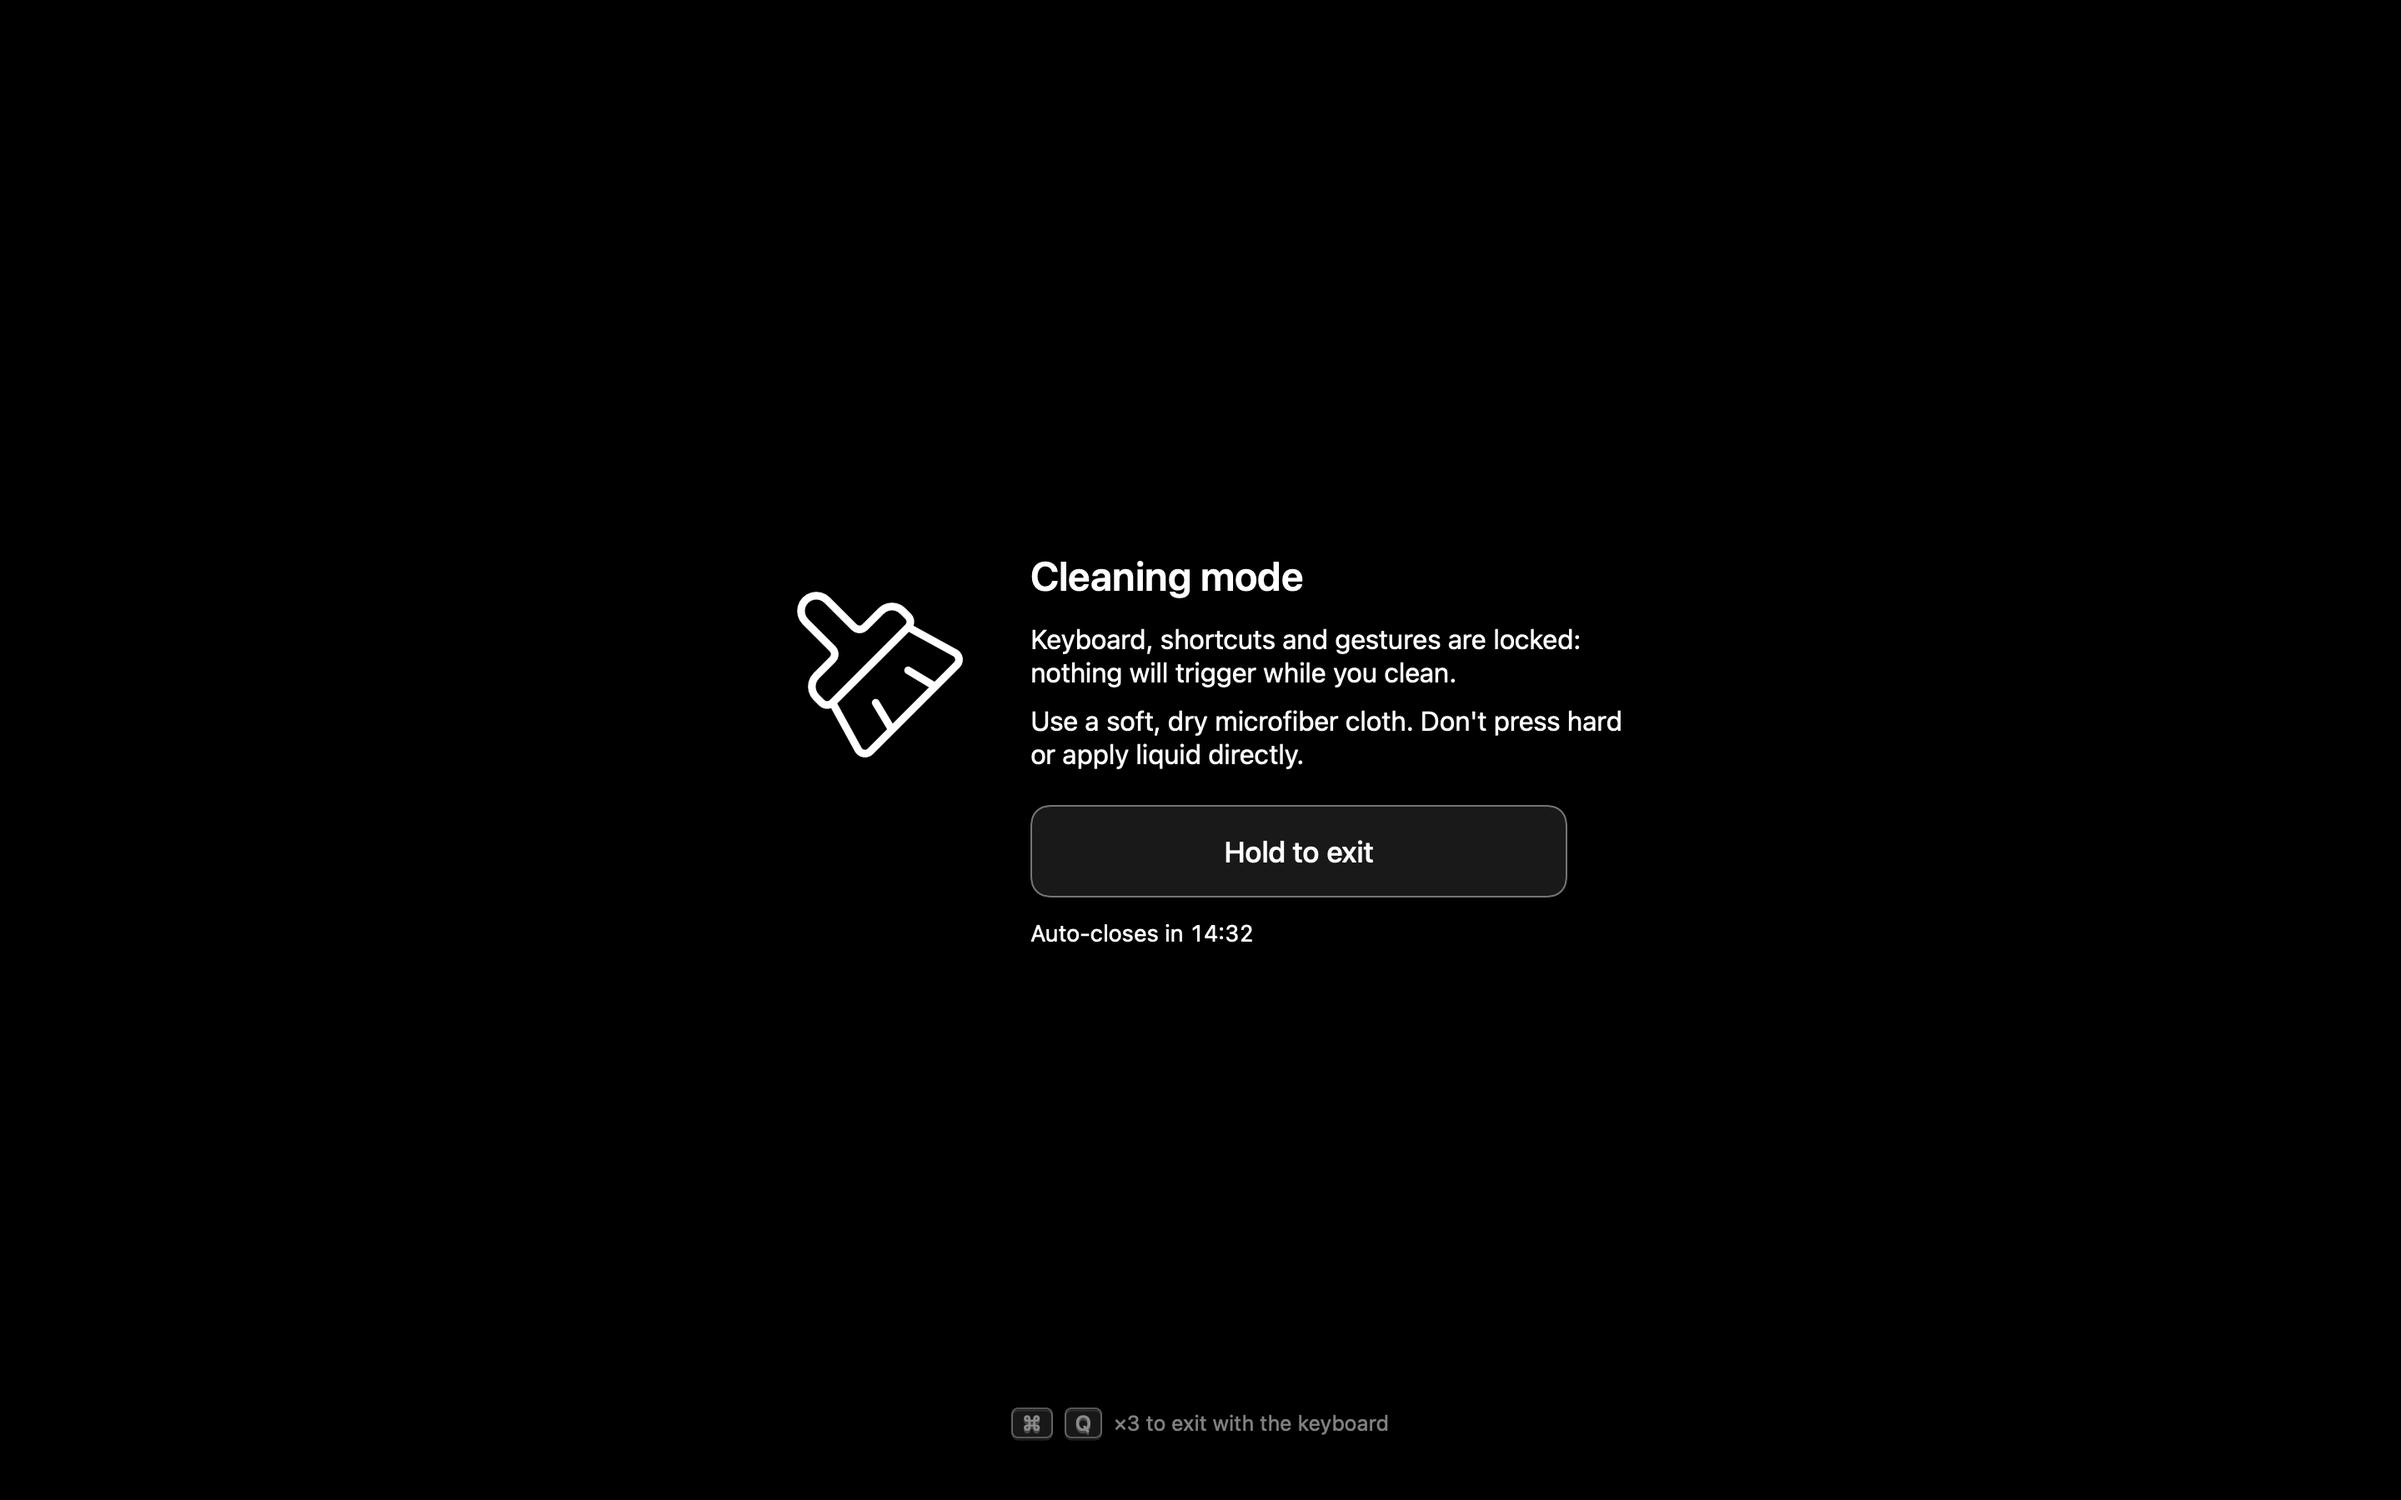
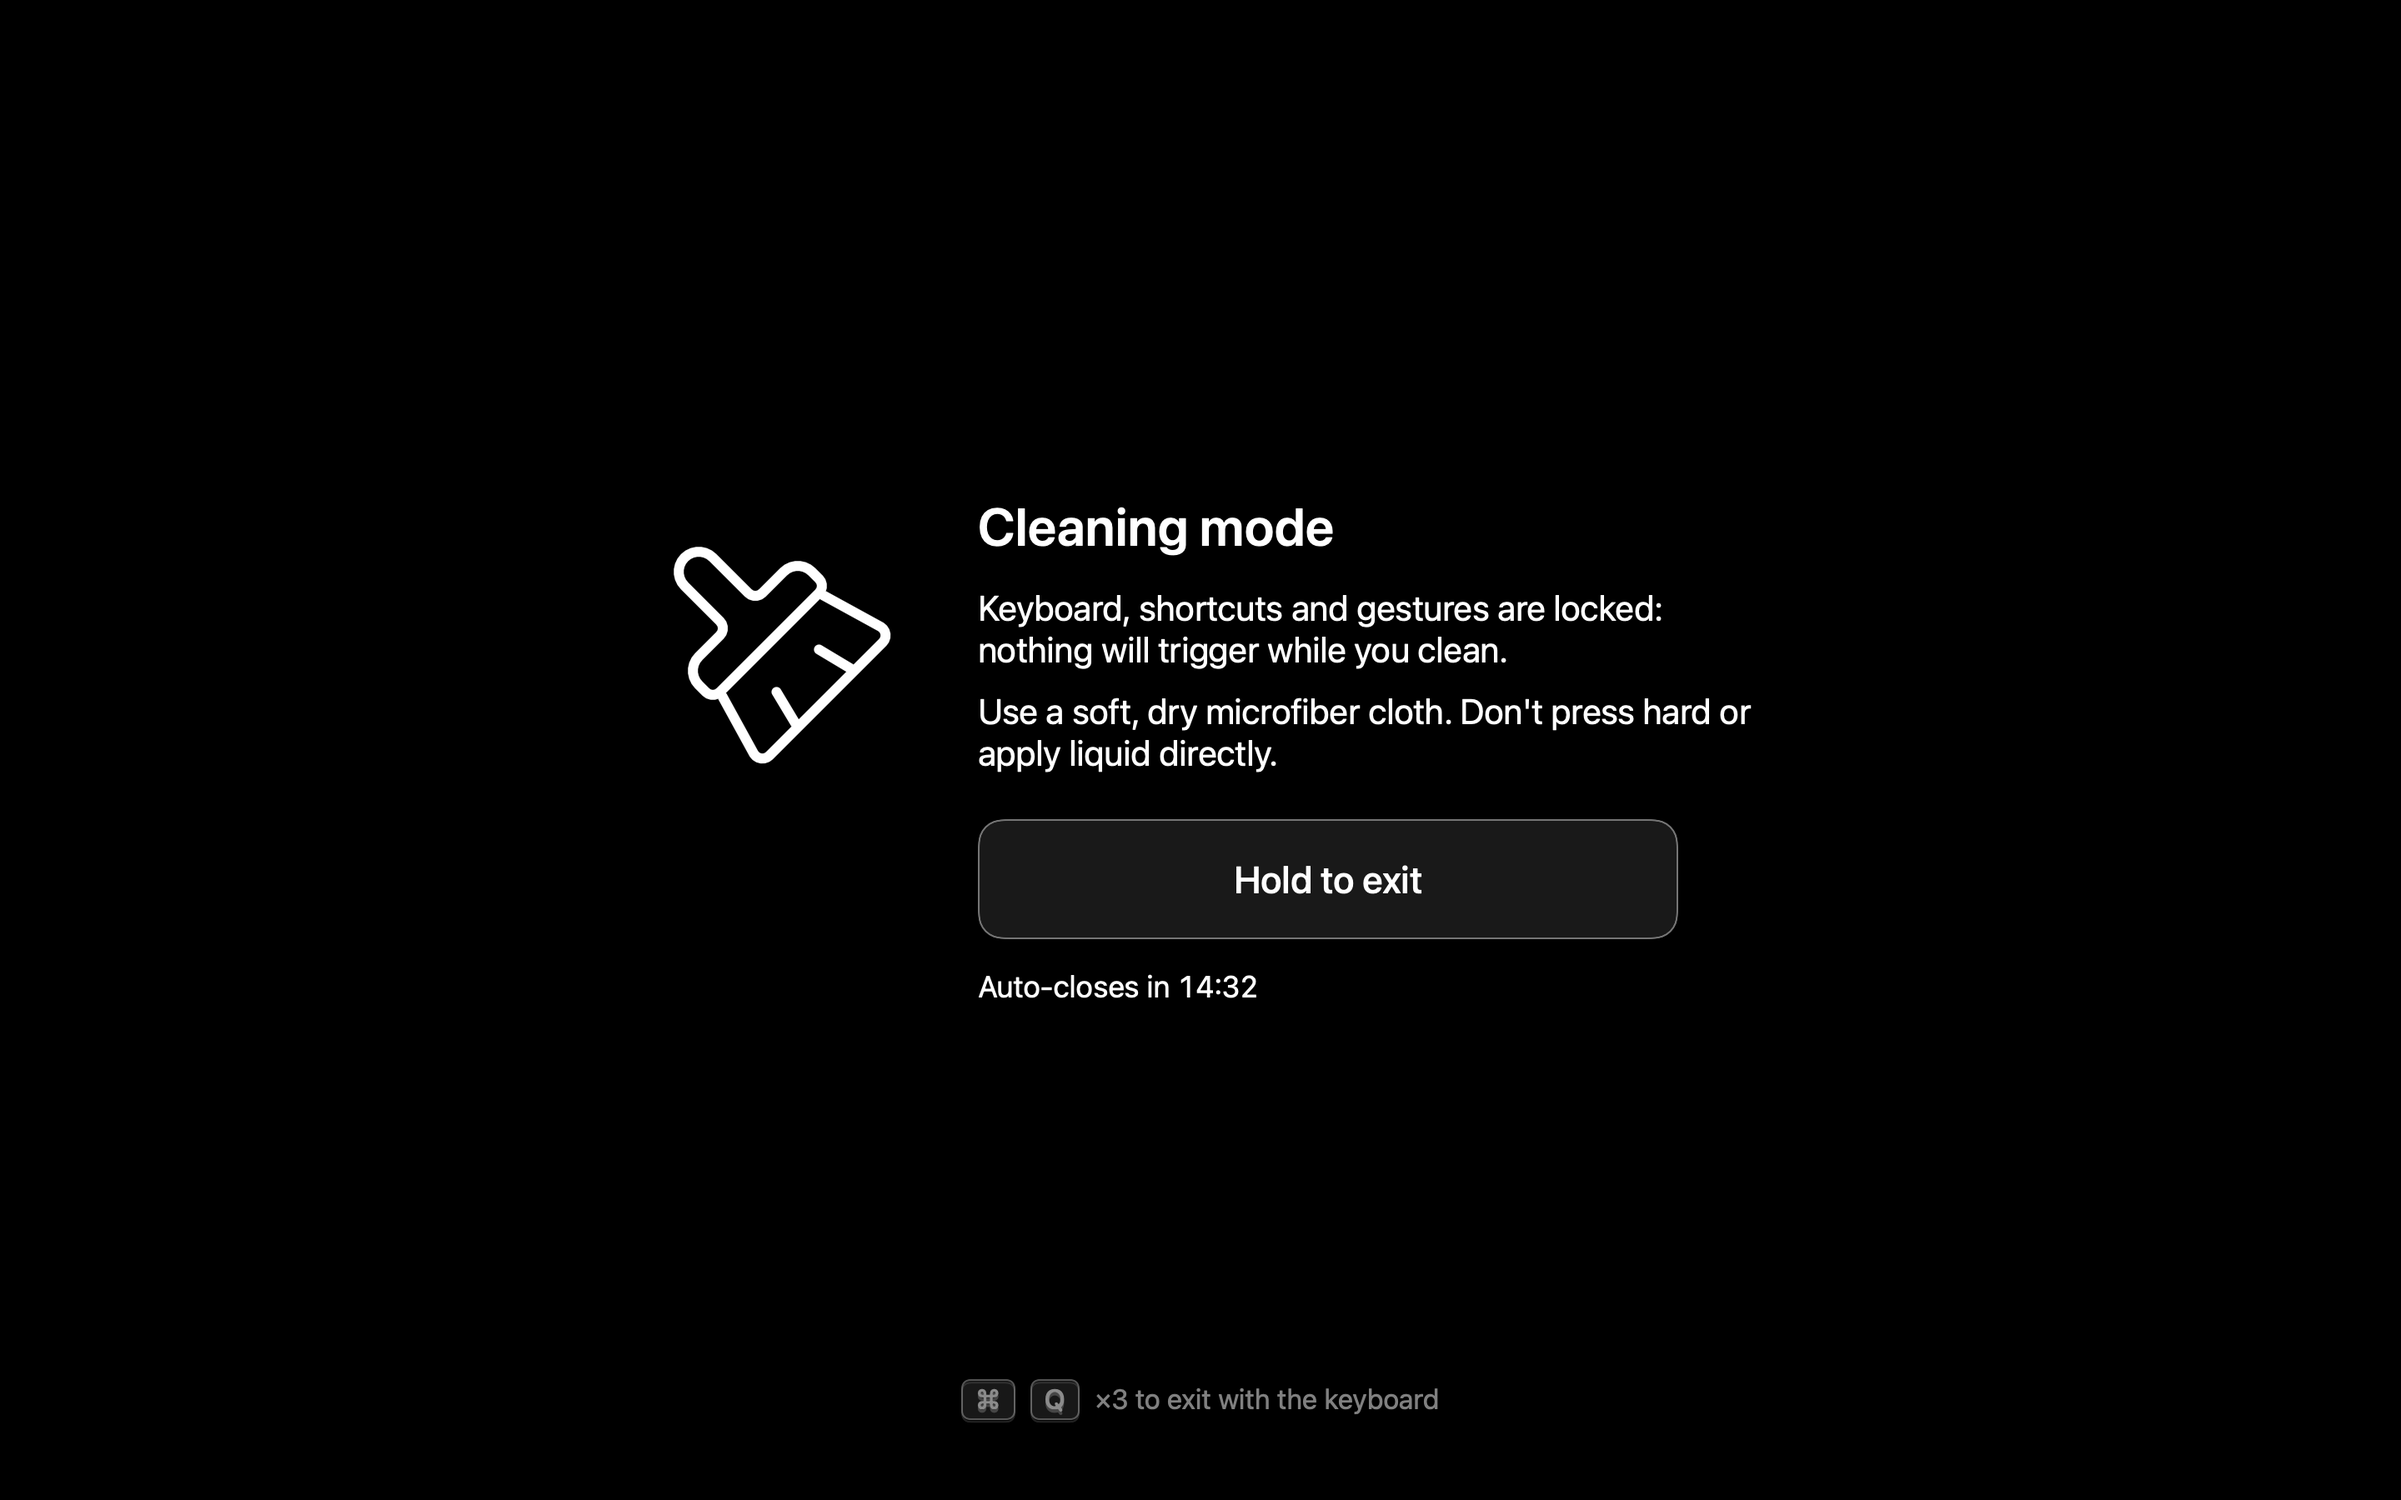
feat: enhance UI scaling logic and documentation for better adaptability on different screen sizes

Changed region(s): [[0.2812, 0.3422, 0.7188, 0.6844], [0.4062, 0.9022, 0.5938, 0.9644]]

diff --git a/Sources/CleanMode/DocsRenderer.swift b/Sources/CleanMode/DocsRenderer.swift
@@ -11,7 +11,15 @@ enum DocsRenderer {
             let dir = URL(fileURLWithPath: outputDirectory, isDirectory: true)
             try? FileManager.default.createDirectory(at: dir, withIntermediateDirectories: true)
 
-            render(lockScreen, size: CGSize(width: 1440, height: 900), to: dir.appendingPathComponent("lock.png"))
+            // Tamaño de la pantalla simulada (por defecto 1440×900); `--render-size=1280x720` para probar pantallas bajas.
+            var lockSize = CGSize(width: 1440, height: 900)
+            if let arg = CommandLine.arguments.first(where: { $0.hasPrefix("--render-size=") }) {
+                let parts = arg.dropFirst("--render-size=".count).split(separator: "x").compactMap { Double($0) }
+                if parts.count == 2 { lockSize = CGSize(width: parts[0], height: parts[1]) }
+            }
+            Config.uiScaleOverride = min(1.5, lockSize.height / 500)
+
+            render(lockScreen, size: lockSize, to: dir.appendingPathComponent("lock.png"))
             render(onboarding(dark: false), size: CGSize(width: 560, height: 680), to: dir.appendingPathComponent("onboarding-light.png"))
             render(onboarding(dark: true), size: CGSize(width: 560, height: 680), to: dir.appendingPathComponent("onboarding-dark.png"))
             exit(0)

diff --git a/Sources/CleanMode/Config.swift b/Sources/CleanMode/Config.swift
@@ -1,3 +1,4 @@
+import AppKit
 import Foundation
 
 enum Config {
@@ -23,8 +24,17 @@ enum Config {
         return n
     }
 
-    /// Factor de escala global de la UI del overlay.
-    static let uiScale: CGFloat = 1.15
+    /// Factor de escala de la UI del overlay: 1.5 por defecto. En pantallas bajas se reduce solo para que
+    /// el contenido, el subtítulo de ⌘Q y el pie quepan sin encimarse (en 1280×720 queda en 1.44).
+    /// Usa la pantalla más baja conectada, porque el contenido puede aparecer en cualquiera.
+    static var uiScale: CGFloat {
+        if let uiScaleOverride { return uiScaleOverride }
+        let lowest = NSScreen.screens.map { $0.frame.height }.min() ?? 900
+        return min(1.5, lowest / 500)
+    }
+
+    /// Solo para generar capturas de la documentación (`--render-docs`).
+    static var uiScaleOverride: CGFloat?
 
     /// Tiempo máximo de bloqueo en segundos; nil = sin límite (minutos <= 0).
     /// Prioridad (de menor a mayor):

diff --git a/CLAUDE.md b/CLAUDE.md
@@ -27,6 +27,8 @@ swift scripts/make-icon.swift Resources/AppIcon-1024.png
 
 # Regenerate README screenshots (renders SwiftUI views to PNG and exits; locks nothing)
 build/CleanMode.app/Contents/MacOS/CleanMode --render-docs=docs/screenshots --lang=en
+# Same, simulating a smaller screen (e.g. to check the layout fits)
+build/CleanMode.app/Contents/MacOS/CleanMode --render-docs=/tmp/shots --lang=de --render-size=1280x720
 
 # Run (it takes over keyboard and screen — always pass a short timeout when testing)
 open build/CleanMode.app --args --timeout=1 --lang=ja
@@ -41,7 +43,7 @@ Flow: `main.swift` → `AppDelegate`. If `Permissions.isReady` it calls `LockCon
 - **`LockController`** orchestrates everything and is the only place that sets/undoes global state: `KeyboardBlocker`, one `OverlayWindow` per `NSScreen` (level `CGShieldingWindowLevel`, rebuilt on screen-parameter changes), `NSApp.presentationOptions` (hides Dock/menu bar, disables Cmd+Tab, force quit, session termination), real-cursor hide (`CGDisplayHideCursor` + `NSCursor.hide`), an `IOPMAssertion` (no display sleep) and the auto-close countdown. `start()` creates the keyboard tap *first* and returns false before touching anything else if that fails.
 - **`KeyboardBlocker`**: an active `CGEventTap` (session tap, head insert) that swallows keyDown/keyUp/flagsChanged, `NX_SYSDEFINED` (media keys) and gesture events. It counts Cmd+Q presses (ignoring autorepeat) with a debounce reset; the tap callback runs on the main run loop so it can call UI directly. It re-enables itself on `tapDisabledByTimeout`.
 - **Three exits**, all funnel into `LockController.unlock()` → `onFinish` → terminate: hold the button (`Config.holdDuration`, 3 s), Cmd+Q ×3 (`quitPressesRequired`, `quitDebounce`), or the timeout. `AppDelegate.applicationShouldTerminate` cancels termination unless `allowTerminate` is set, so only `unlock()` can quit the app.
-- **UI**: `OverlayView` (SwiftUI, hosted in `NSHostingView`) shows content only on the screen under the mouse at launch; other screens are plain black. `CursorTrailView` (AppKit, `CALayer` dots, a 60 Hz timer) sits above it and returns nil from `hitTest` so clicks reach the button. The trail records the pointer path and places each dot where the pointer was N ms ago (not a lerp chain — that read as a whip). `HoldButton` fills white and flips the label to black via a masked second label. `BrushCleaningShape` draws aura's lucide icon from SVG path data through the small parser in `SVGPath.swift`. `Config.uiScale` (1.15) scales the whole overlay.
+- **UI**: `OverlayView` (SwiftUI, hosted in `NSHostingView`) shows content only on the screen under the mouse at launch; other screens are plain black. `CursorTrailView` (AppKit, `CALayer` dots, a 60 Hz timer) sits above it and returns nil from `hitTest` so clicks reach the button. The trail records the pointer path and places each dot where the pointer was N ms ago (not a lerp chain — that read as a whip). `HoldButton` fills white and flips the label to black via a masked second label. `BrushCleaningShape` draws aura's lucide icon from SVG path data through the small parser in `SVGPath.swift`. `Config.uiScale` scales the whole overlay: 1.5, reduced automatically on short screens to `min(1.5, lowestScreenHeight / 500)` so the content, the ⌘Q subtitle and the footer never overlap (1280×720 → 1.44).
 - **`DocsRenderer`** (hidden `--render-docs=<dir>` flag, handled first thing in `AppDelegate`): draws `OverlayView` and `OnboardingView` with `ImageRenderer` into PNGs and exits without locking or asking permissions. `OverlayView(preview: true)` skips the fade-in. `ImageRenderer` can't draw AppKit-backed controls (e.g. `ProgressView` renders as a "prohibited" sign), which is why onboarding uses the pure-SwiftUI `Spinner`; the cursor trail (AppKit) doesn't appear in the screenshots.
 - **Donation reminder** (`DonationReminder`, `DonationView`/`DonationController`): `AppDelegate.sessionFinished` counts each finished session (3 exit reasons via `LockController.ExitReason`) and, every `Config.donationReminderEvery` (10) sessions ended by the user (not by timeout), shows a small dismissible window before quitting. State is three local `UserDefaults` keys (`donationSessions`, `donationNextAt`, `donationOptOut`); no network. The link is `Config.donationURL`. To test: `--donation-every=1`; reset with `defaults delete im.dnn.cleanmode donationSessions donationNextAt donationOptOut`.
 - **`Permissions`**: `accessibilityGranted` is the silent `AXIsProcessTrusted()`; `eventTapReady` actually tries to create a tap (only when granted, to avoid triggering system prompts). The system permission dialog is triggered *only* by the onboarding button (`requestAndOpenSettings`), never at launch.
